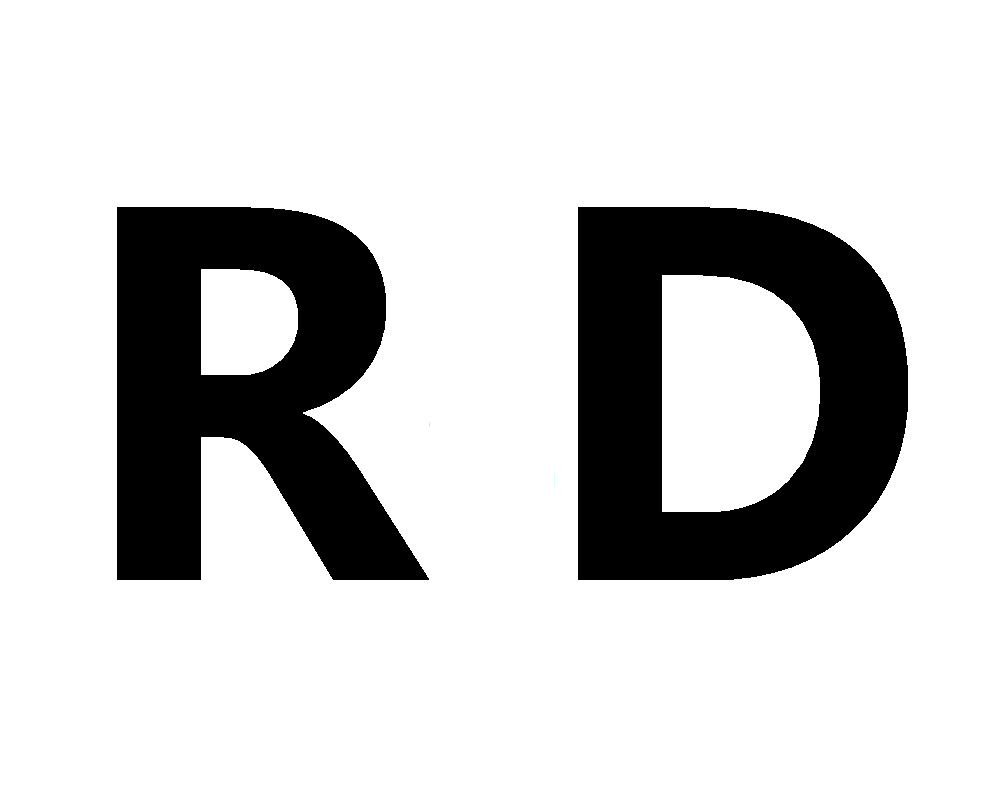
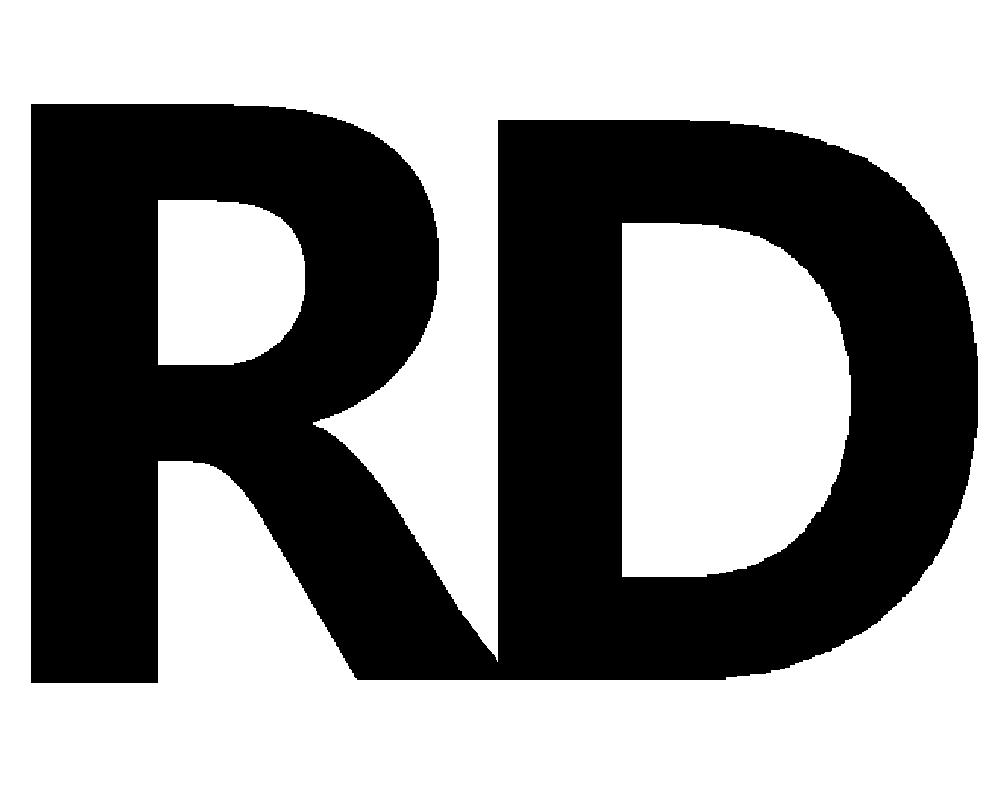
Updating mask for the reseach and development. Updating sample images.

diff --git a/README.md b/README.md
@@ -15,8 +15,8 @@ Tiny python utility that converts data crawled from different services into clou
 ![](./img-examples/twitter-wordcloud-monaco-twitter_mask-white.png)
 
 ** ORCID with Simple Mask**
-![](./img-examples/orcid-wordcloud-arvo-regular-r_and_d-01-black.png)
-![](./img-examples/orcid-wordcloud-menlo-regular-r_and_d-01-white.png)
+![](./img-examples/orcid-wordcloud-menlo-regular-r_and_d-01-black.png)
+![](./img-examples/orcid-wordcloud-arvo-regular-r_and_d-01-white.png)
 
 
 ### Installation
